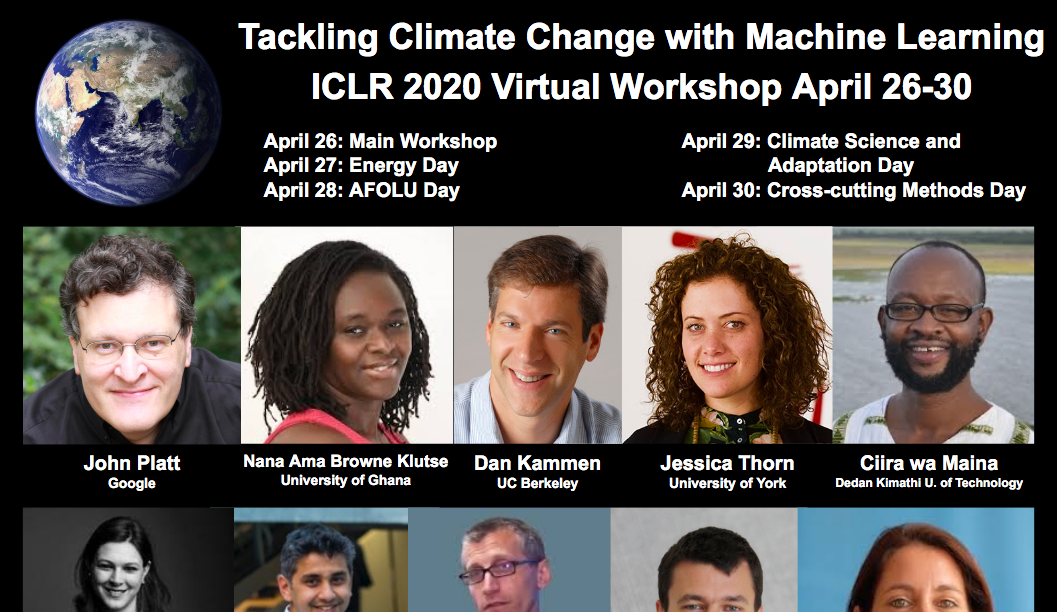
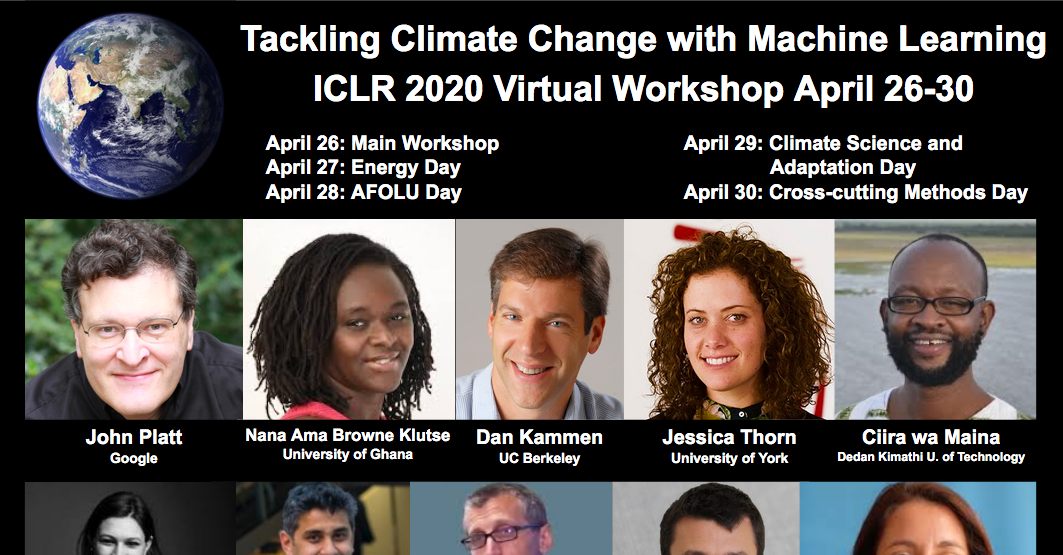
Update ICLR preview image

diff --git a/ICLR2020_workshop.md b/ICLR2020_workshop.md
@@ -4,8 +4,8 @@ title: 'Tackling Climate Change with Machine Learning'
 description: 'ICLR 2020 Workshop: Tackling Climate Change with Machine Learning'
 og_image_url: 'https://www.climatechange.ai/images/ICLR2020_preview_cropped.png'
 og_image_type: 'image/png'
-og_image_width: 1057
-og_image_height: 612
+og_image_width: 1063
+og_image_height: 555
 ---
 
 <h1>ICLR 2020 Workshop <br> Tackling Climate Change with Machine Learning</h1>
